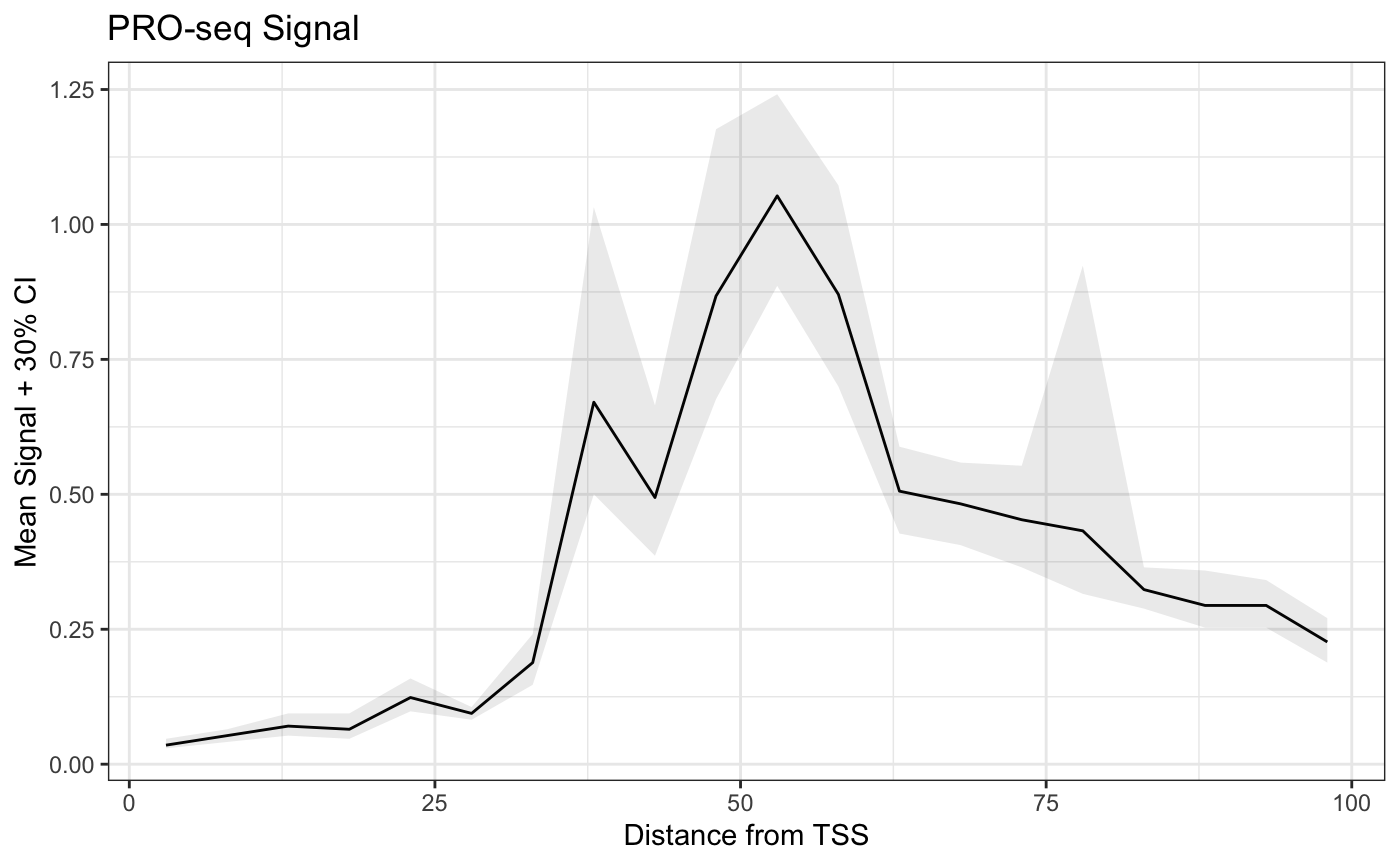
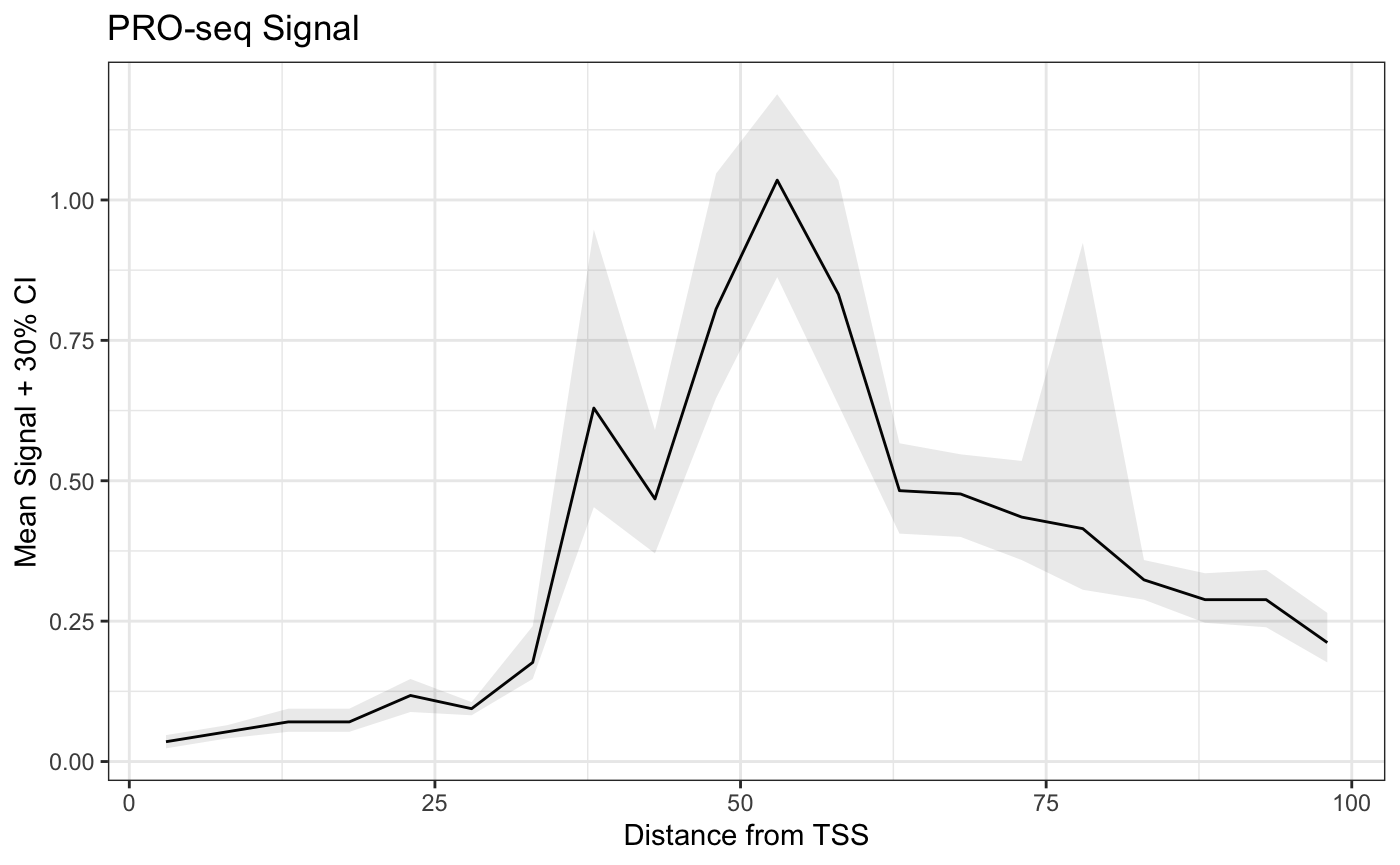
v0.99.26

diff --git a/articles/BRGenomicsOverview.html b/articles/BRGenomicsOverview.html
@@ -31,7 +31,7 @@
       </button>
       <span class="navbar-brand">
         <a class="navbar-link" href="../index.html">BRGenomics</a>
-        <span class="version label label-default" data-toggle="tooltip" data-placement="bottom" title="Released version">0.99.25</span>
+        <span class="version label label-default" data-toggle="tooltip" data-placement="bottom" title="Released version">0.99.26</span>
       </span>
     </div>
 
@@ -1072,11 +1072,11 @@
 <a class="sourceLine" id="cb132-2" data-line-number="2">                              <span class="dt">lower =</span> <span class="fl">0.35</span>, <span class="dt">upper =</span> <span class="fl">0.65</span>, <span class="dt">ncores =</span> <span class="dv">1</span>)</a>
 <a class="sourceLine" id="cb132-3" data-line-number="3"><span class="kw"><a href="https://rdrr.io/r/utils/head.html">head</a></span>(bootmeans.df)</a></code></pre></div>
 <pre><code>##    x       mean      lower      upper sample.name
-## 1  3 0.03529412 0.02941176 0.04705882      PROseq
+## 1  3 0.03529412 0.02352941 0.04705882      PROseq
 ## 2  8 0.05294118 0.04117647 0.06470588      PROseq
 ## 3 13 0.07058824 0.05294118 0.09411765      PROseq
-## 4 18 0.06470588 0.04705882 0.09411765      PROseq
-## 5 23 0.12352941 0.09794118 0.15882353      PROseq
+## 4 18 0.07058824 0.05294118 0.09411765      PROseq
+## 5 23 0.11764706 0.08823529 0.14705882      PROseq
 ## 6 28 0.09411765 0.08235294 0.10588235      PROseq</code></pre>
 <p>A dataframe is returned for plotting, and notice how the x-values have been automatically adjusted to be the center of the bins.</p>
 <p>Below, we show how to plot the confidence bands using base R plotting, as well as <code>ggplot2</code>.</p>
@@ -1703,23 +1703,23 @@
 ## [8] methods   base     
 ## 
 ## other attached packages:
-##  [1] Biostrings_2.55.5    XVector_0.27.0       ggplot2_3.3.0       
-##  [4] BRGenomics_0.99.25   rtracklayer_1.47.0   GenomicRanges_1.39.2
-##  [7] GenomeInfoDb_1.23.13 IRanges_2.21.3       S4Vectors_0.25.12   
-## [10] BiocGenerics_0.33.0  BiocStyle_2.15.6    
+##  [1] Biostrings_2.55.6    XVector_0.27.1       ggplot2_3.3.0       
+##  [4] BRGenomics_0.99.26   rtracklayer_1.47.0   GenomicRanges_1.39.2
+##  [7] GenomeInfoDb_1.23.13 IRanges_2.21.5       S4Vectors_0.25.13   
+## [10] BiocGenerics_0.33.2  BiocStyle_2.15.6    
 ## 
 ## loaded via a namespace (and not attached):
-##  [1] Biobase_2.47.2              bit64_0.9-7                
+##  [1] Biobase_2.47.3              bit64_0.9-7                
 ##  [3] splines_4.0.0               assertthat_0.2.1           
 ##  [5] BiocManager_1.30.10         blob_1.2.1                 
-##  [7] GenomeInfoDbData_1.2.2      Rsamtools_2.3.5            
+##  [7] GenomeInfoDbData_1.2.2      Rsamtools_2.3.7            
 ##  [9] yaml_2.2.1                  pillar_1.4.3               
 ## [11] RSQLite_2.2.0               backports_1.1.5            
-## [13] lattice_0.20-40             glue_1.3.1                 
+## [13] lattice_0.20-40             glue_1.3.2                 
 ## [15] digest_0.6.25               RColorBrewer_1.1-2         
 ## [17] colorspace_1.4-1            htmltools_0.4.0            
 ## [19] Matrix_1.2-18               pkgconfig_2.0.3            
-## [21] DESeq2_1.27.28              XML_3.99-0.3               
+## [21] DESeq2_1.27.29              XML_3.99-0.3               
 ## [23] genefilter_1.69.0           bookdown_0.18              
 ## [25] zlibbioc_1.33.1             purrr_0.3.3                
 ## [27] xtable_1.8-4                scales_1.1.0               
@@ -1730,9 +1730,9 @@
 ## [37] crayon_1.3.4                memoise_1.1.0              
 ## [39] evaluate_0.14               fs_1.3.2                   
 ## [41] MASS_7.3-51.5               tools_4.0.0                
-## [43] lifecycle_0.2.0             matrixStats_0.55.0         
+## [43] lifecycle_0.2.0             matrixStats_0.56.0         
 ## [45] stringr_1.4.0               locfit_1.5-9.1             
-## [47] munsell_0.5.0               DelayedArray_0.13.5        
+## [47] munsell_0.5.0               DelayedArray_0.13.7        
 ## [49] AnnotationDbi_1.49.1        compiler_4.0.0             
 ## [51] pkgdown_1.4.1               rlang_0.4.5                
 ## [53] grid_4.0.0                  RCurl_1.98-1.1             
@@ -1743,7 +1743,7 @@
 ## [63] dplyr_0.8.5                 knitr_1.28                 
 ## [65] bit_1.1-15.2                rprojroot_1.3-2            
 ## [67] desc_1.2.0                  stringi_1.4.6              
-## [69] Rcpp_1.0.3                  vctrs_0.2.4                
+## [69] Rcpp_1.0.4                  vctrs_0.2.4                
 ## [71] geneplotter_1.65.0          tidyselect_1.0.0           
 ## [73] xfun_0.12</code></pre>
 <!-- SCRAP -->

diff --git a/news/index.html b/news/index.html
@@ -67,7 +67,7 @@
       </button>
       <span class="navbar-brand">
         <a class="navbar-link" href="../index.html">BRGenomics</a>
-        <span class="version label label-default" data-toggle="tooltip" data-placement="bottom" title="Released version">0.99.25</span>
+        <span class="version label label-default" data-toggle="tooltip" data-placement="bottom" title="Released version">0.99.26</span>
       </span>
     </div>
 
@@ -121,7 +121,7 @@
 <h2 class="hasAnchor">
 <a href="#brgenomics-0-99-25" class="anchor"></a>BRGenomics 0.99.25</h2>
 <ul>
-<li>Bug fixes with <code>expand_ranges</code> arguments affecting <code>getCountsByRegion()</code>, <code><a href="../reference/subsampleGRanges.html">subsampleGRanges()</a></code>, and <code><a href="../reference/getSpikeInNFs.html">getSpikeInNFs()</a></code>
+<li>Bug fixes with <code>expand_ranges</code> arguments affecting <code><a href="../reference/getCountsByRegions.html">getCountsByRegions()</a></code>, <code><a href="../reference/subsampleGRanges.html">subsampleGRanges()</a></code>, and <code><a href="../reference/getSpikeInNFs.html">getSpikeInNFs()</a></code>
 </li>
 <li>Expanded testing, particularly for <code>expand_ranges</code> arguments and <code><a href="../reference/import_bam.html">import_bam()</a></code>
 </li>

diff --git a/reference/binNdimensions.html b/reference/binNdimensions.html
@@ -70,7 +70,7 @@ summarize the datapoints that fall into any of these n-dimensional bins." />
       </button>
       <span class="navbar-brand">
         <a class="navbar-link" href="../index.html">BRGenomics</a>
-        <span class="version label label-default" data-toggle="tooltip" data-placement="bottom" title="Released version">0.99.25</span>
+        <span class="version label label-default" data-toggle="tooltip" data-placement="bottom" title="Released version">0.99.26</span>
       </span>
     </div>
 

diff --git a/reference/import_bam.html b/reference/import_bam.html
@@ -70,7 +70,7 @@ processing options. It is highly recommend to index the BAM file first." />
       </button>
       <span class="navbar-brand">
         <a class="navbar-link" href="../index.html">BRGenomics</a>
-        <span class="version label label-default" data-toggle="tooltip" data-placement="bottom" title="Released version">0.99.25</span>
+        <span class="version label label-default" data-toggle="tooltip" data-placement="bottom" title="Released version">0.99.26</span>
       </span>
     </div>
 

diff --git a/reference/txs_dm6_chr4.html b/reference/txs_dm6_chr4.html
@@ -73,7 +73,7 @@ the TxDb package using GenomicFeatures version 1.35.11 on 2019-12-19." />
       </button>
       <span class="navbar-brand">
         <a class="navbar-link" href="../index.html">BRGenomics</a>
-        <span class="version label label-default" data-toggle="tooltip" data-placement="bottom" title="Released version">0.99.25</span>
+        <span class="version label label-default" data-toggle="tooltip" data-placement="bottom" title="Released version">0.99.26</span>
       </span>
     </div>
 

diff --git a/reference/getCountsByRegions.html b/reference/getCountsByRegions.html
@@ -73,7 +73,7 @@ overlapping each region, while expand_regions = TRUE will calculate
       </button>
       <span class="navbar-brand">
         <a class="navbar-link" href="../index.html">BRGenomics</a>
-        <span class="version label label-default" data-toggle="tooltip" data-placement="bottom" title="Released version">0.99.25</span>
+        <span class="version label label-default" data-toggle="tooltip" data-placement="bottom" title="Released version">0.99.26</span>
       </span>
     </div>
 

diff --git a/reference/BRGenomics-package.html b/reference/BRGenomics-package.html
@@ -74,7 +74,7 @@ For interactive documentation with code examples, see the online
       </button>
       <span class="navbar-brand">
         <a class="navbar-link" href="../index.html">BRGenomics</a>
-        <span class="version label label-default" data-toggle="tooltip" data-placement="bottom" title="Released version">0.99.25</span>
+        <span class="version label label-default" data-toggle="tooltip" data-placement="bottom" title="Released version">0.99.26</span>
       </span>
     </div>
 

diff --git a/reference/genebodies.html b/reference/genebodies.html
@@ -70,7 +70,7 @@ start and end sites of regions of interest (usually genes)." />
       </button>
       <span class="navbar-brand">
         <a class="navbar-link" href="../index.html">BRGenomics</a>
-        <span class="version label label-default" data-toggle="tooltip" data-placement="bottom" title="Released version">0.99.25</span>
+        <span class="version label label-default" data-toggle="tooltip" data-placement="bottom" title="Released version">0.99.26</span>
       </span>
     </div>
 

diff --git a/reference/getStrandedCoverage.html b/reference/getStrandedCoverage.html
@@ -70,7 +70,7 @@ Function also works for non-strand-specific data." />
       </button>
       <span class="navbar-brand">
         <a class="navbar-link" href="../index.html">BRGenomics</a>
-        <span class="version label label-default" data-toggle="tooltip" data-placement="bottom" title="Released version">0.99.25</span>
+        <span class="version label label-default" data-toggle="tooltip" data-placement="bottom" title="Released version">0.99.26</span>
       </span>
     </div>
 

diff --git a/reference/getDESeqResults.html b/reference/getDESeqResults.html
@@ -75,7 +75,7 @@ being compared, and not for all samples present." />
       </button>
       <span class="navbar-brand">
         <a class="navbar-link" href="../index.html">BRGenomics</a>
-        <span class="version label label-default" data-toggle="tooltip" data-placement="bottom" title="Released version">0.99.25</span>
+        <span class="version label label-default" data-toggle="tooltip" data-placement="bottom" title="Released version">0.99.26</span>
       </span>
     </div>
 

diff --git a/reference/bootstrap-signal-by-position.html b/reference/bootstrap-signal-by-position.html
@@ -73,7 +73,7 @@ base-pair resolution, or over larger bins." />
       </button>
       <span class="navbar-brand">
         <a class="navbar-link" href="../index.html">BRGenomics</a>
-        <span class="version label label-default" data-toggle="tooltip" data-placement="bottom" title="Released version">0.99.25</span>
+        <span class="version label label-default" data-toggle="tooltip" data-placement="bottom" title="Released version">0.99.26</span>
       </span>
     </div>
 

diff --git a/reference/makeGRangesBRG.html b/reference/makeGRangesBRG.html
@@ -73,7 +73,7 @@ is a basepair resolution GRanges object." />
       </button>
       <span class="navbar-brand">
         <a class="navbar-link" href="../index.html">BRGenomics</a>
-        <span class="version label label-default" data-toggle="tooltip" data-placement="bottom" title="Released version">0.99.25</span>
+        <span class="version label label-default" data-toggle="tooltip" data-placement="bottom" title="Released version">0.99.26</span>
       </span>
     </div>
 
